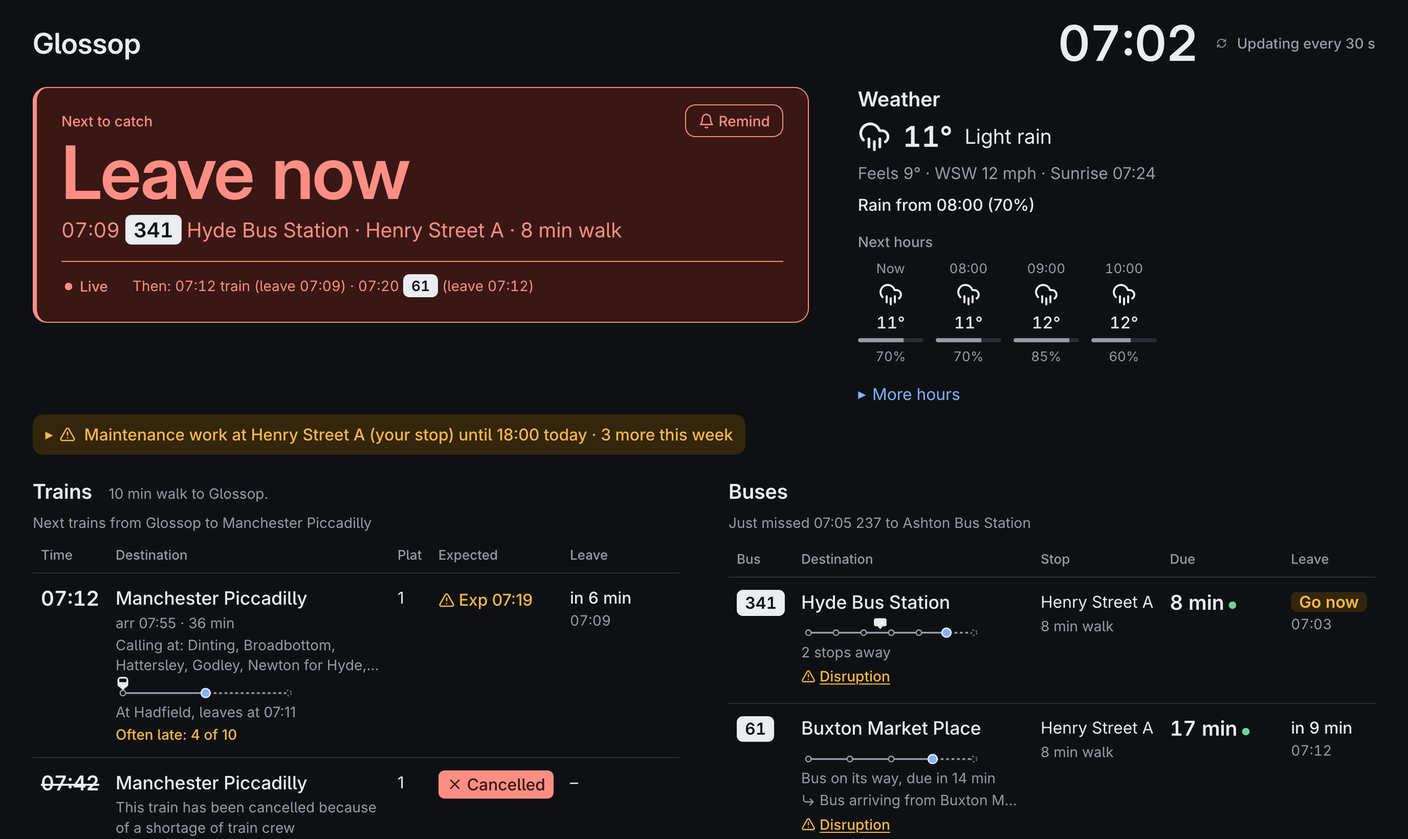
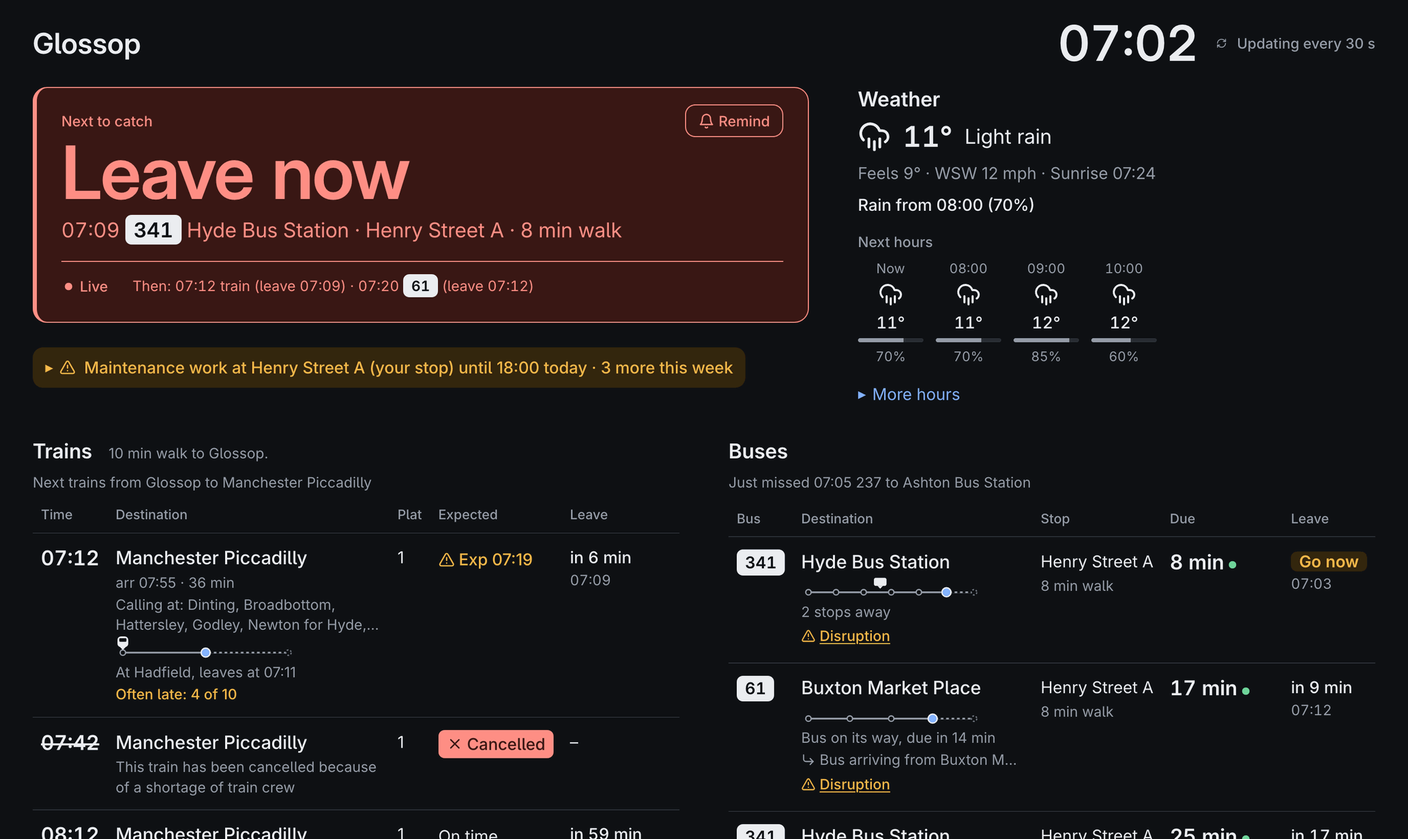
style(dashboard): cut the calling-at line to two lines and tuck the disruption line under the hero
The first train's calling points ran to five lines in the Dot matrix, TFT
and Split-flap looks whenever they didn't scroll (scrolling text off, or
reduced motion), pushing the next departure down the page. They are now
two lines cut short with an ellipsis in every look, as Standard already
was; while the station looks scroll, the line stays one scrolling line,
and the sheet still has the whole journey.

On a wide screen the disruption line sat across the page under the hero,
leaving a band of nothing beside the hero while the taller weather
finished. It now sits in the hero's column under Next to catch, beside
the weather, with an empty 1fr row taking the weather's extra height, so
the boards start sooner. The DOM order is unchanged (hero, alerts,
disruption, boards, weather), so screen readers and the Tab key meet
things as before; the wall tablet keeps its own layout.

The dark dashboard picture is retaken to match.

diff --git a/src/twobells/dashboard_static/app.css b/src/twobells/dashboard_static/app.css
@@ -626,9 +626,11 @@ main:focus { outline: none; }
 /* --- Sections: plain on the page, no boxes. Narrow, one column: trains,
    buses, around here, the weather. From 75rem the weather sits beside Next
    to catch, which would otherwise leave half the width empty, as a wall
-   tablet's does; trains and buses side by side under them, and around here
-   last. The page's order stays as it reads narrow, departures first and the
-   weather, a sidebar there, last. --- */
+   tablet's does, with the alerts and the disruption line under the hero in
+   its column, so the weather's height isn't a band of nothing there; trains
+   and buses side by side under them, and around here last. The page's order
+   stays as it reads narrow, departures first and the weather, a sidebar
+   there, last. --- */
 
 .sections { display: grid; gap: var(--s-7); }
 .boards, .extras { display: grid; gap: var(--s-7); }
@@ -642,11 +644,15 @@ main:focus { outline: none; }
 .empty { margin: var(--s-2) 0; color: var(--muted); }
 @media (min-width: 75rem) {
   /* No gap between rows: an empty alert row or a hidden disruption line
-     would still leave its gap. The margins space them. */
+     would still leave its gap. The margins space them. The empty 1fr row
+     under the disruption line takes whatever height the weather has over
+     the hero's column, so the hero, the alerts and the line stay together
+     at its top. */
   :root:not([data-kiosk]) main {
     display: grid;
     grid-template-columns: minmax(0, 3fr) minmax(0, 2fr);
-    grid-template-areas: "hero weather" "alert alert" "dis dis" "boards boards" "area area";
+    grid-template-rows: auto auto auto 1fr auto auto;
+    grid-template-areas: "hero weather" "alert weather" "dis weather" ". weather" "boards boards" "area area";
     gap: 0 var(--s-7);
     align-items: start;
   }
@@ -657,6 +663,8 @@ main:focus { outline: none; }
   .boards { grid-area: boards; display: flex; gap: var(--s-7); align-items: flex-start; }
   .boards > * { flex: 1 1 0; }
   .weather { grid-area: weather; }
+  /* Its column ends as the hero's does, on the disruption line's margin. */
+  :root:not([data-kiosk]) .weather { margin-bottom: var(--s-5); }
   .area { grid-area: area; margin-top: var(--s-7); }
   /* The weather beside the hero says the same rain sentence. */
   :root:not([data-kiosk]) .leave-rain { display: none; }
@@ -702,10 +710,10 @@ table.board .dest { font-size: var(--t-row); line-height: 1.3; }
    its sheet says it all, under Bus coming in. Its width is 0 so the long
    line doesn't widen the table: it takes the room the column has. */
 table.board .inbound { width: 0; min-width: 100%; overflow: hidden; white-space: nowrap; text-overflow: ellipsis; }
-/* In the Standard look the first train's calling points show two lines,
-   cut short; the train's sheet has its whole journey and its coaches.
-   The station looks scroll it, or show it whole with scrolling off. */
-:root[data-theme="modern"] .calling-at {
+/* The first train's calling points show two lines, cut short with "…", in
+   every look; the train's sheet has its whole journey and its coaches.
+   While the station looks scroll it (below), it is one line instead. */
+.calling-window {
   display: -webkit-box;
   -webkit-box-orient: vertical;
   -webkit-line-clamp: 2;
@@ -1422,13 +1430,14 @@ table.repay td:nth-child(2), table.repay td:last-child { white-space: normal; }
 :root[data-theme="tft"] .badge.st-late { color: var(--pill-ink); background: var(--pill-late); }
 :root[data-theme="tft"] .badge.st-cancelled { color: var(--pill-bad-ink); background: var(--pill-bad); }
 
-/* --- The first train's "Calling at" line (board.js): wrapped, as any line
-   under a destination, and two lines at most in the Standard look. The Dot matrix, TFT and Split-flap looks scroll it
-   along one line instead, as the board's screen does in every look, in from
-   the right; never with scrolling text off in the settings
+/* --- The first train's "Calling at" line (board.js): two lines at most,
+   cut short, in every look. The Dot matrix, TFT and Split-flap looks scroll
+   it along one line instead, as the board's screen does in every look, in
+   from the right; never with scrolling text off in the settings
    (data-scrolling="off"), nor with reduced motion, nor on a wall tablet,
-   which hides the line. The window's width is 0 so the long line doesn't
-   widen the table: it takes the room the column has. --- */
+   which hides the line. Scrolling, the window is a block, not the clamp's
+   box, and its width is 0 so the long line doesn't widen the table: it
+   takes the room the column has. --- */
 
 @keyframes calling-scroll { to { transform: translateX(-100%); } }
 @media (prefers-reduced-motion: no-preference) {

diff --git a/src/twobells/dashboard_static/board.js b/src/twobells/dashboard_static/board.js
@@ -257,9 +257,9 @@ export function applyScrolling(root, snapshot) {
 // The first row's "Calling at" line, in the server's words (core/calling.py):
 // "Calling at: Dinting, Broadbottom and Manchester Piccadilly. This train is
 // formed of 3 coaches." Every look but Standard (Dot matrix, TFT, Split-flap)
-// scrolls it along one line, as a station's screen does. With scrolling off
-// in the settings (applyScrolling) and with reduced motion it wraps; the
-// Standard look shows two lines of it, cut short (app.css).
+// scrolls it along one line, as a station's screen does. The Standard look,
+// and every look with scrolling off in the settings (applyScrolling) or with
+// reduced motion, shows two lines of it, cut short (app.css).
 
 // Seconds for one pass: a steady pace, whatever the line's length.
 export const callingSeconds = (text) => Math.round(8 + 0.2 * text.length);

diff --git a/tests/dashboard/test_static.py b/tests/dashboard/test_static.py
@@ -1823,8 +1823,16 @@ def test_from_75rem_the_weather_sits_beside_the_hero_over_the_boards():
     assert "display: grid" in main
     areas = re.search(r'grid-template-areas:\s*((?:"[^"]*"\s*)+);', main).group(1)
     rows = [row.split() for row in re.findall(r'"([^"]*)"', areas)]
-    assert rows[0] == ["hero", "weather"]
-    assert rows.index(["dis", "dis"]) < rows.index(["boards", "boards"]) < [r[0] for r in rows].index("area")
+    # The hero's column: Next to catch, the alerts and the disruption line, with the weather beside them all,
+    # and an empty row under them taking the weather's extra height, so no band of nothing opens under the hero.
+    assert rows[:4] == [["hero", "weather"], ["alert", "weather"], ["dis", "weather"], [".", "weather"]]
+    assert rows[4:] == [["boards", "boards"], ["area", "area"]]
+    heights = re.search(r"grid-template-rows:\s*([^;]+);", main).group(1).split()
+    assert heights == ["auto", "auto", "auto", "1fr", "auto", "auto"]
+    # Its column ends on the disruption line's margin, but not on a wall tablet, which fits one screen.
+    assert _css_value(".disruptions", "margin") == "0 0 var(--s-5)"
+    assert "margin-bottom: var(--s-5)" in wide[":root:not([data-kiosk]) .weather"]
+    assert "margin" not in wide[".weather"]
     # The wrappers step aside, so their sections are the grid's own items.
     assert "display: contents" in wide[".sections"] and "display: contents" in wide[".extras"]
     for selector, area in ((".leave", "hero"), (".weather", "weather"), (".disruptions", "dis"),
@@ -2159,10 +2167,26 @@ def test_the_calling_at_line_scrolls_in_every_look_but_standard_while_scrolling_
     for selector in selectors:
         assert selector.startswith(':root:is([data-theme="board"], [data-theme="tft"], [data-theme="flap"])'
                                    ':not([data-scrolling="off"]) '), selector
+    # Scrolling, the window is one line, not the clamp's two (see below).
+    window = re.search(r"\.calling-window\s*\{([^}]*)\}", motion).group(1)
+    assert "display: block;" in window and "white-space: nowrap;" in window
     # The settings say whether it scrolls: the page has no button of its own for it, nor remembers one.
     page = (STATIC / "index.html").read_text(encoding="utf-8")
     assert "calling-pause" not in page and "calling-pause" not in css
     assert "dashboard.calling" not in (STATIC / "board.js").read_text(encoding="utf-8")
+
+
+def test_the_calling_at_line_is_two_lines_cut_short_in_every_look_unless_it_scrolls():
+    # Standard, and every look with scrolling text off or reduced motion: two lines, then "…"; the sheet has
+    # the whole journey. The rule is for every look, not one of them.
+    window = ".calling-window"
+    assert _css_value(window, "display") == "-webkit-box"
+    assert _css_value(window, "-webkit-box-orient") == "vertical"
+    assert _css_value(window, "-webkit-line-clamp") == "2" and _css_value(window, "line-clamp") == "2"
+    assert _css_value(window, "overflow") == "hidden"
+    css = re.sub(r"/\*.*?\*/", "", (STATIC / "app.css").read_text(encoding="utf-8"), flags=re.S)
+    themed = [s for s, body in re.findall(r"([^{}]+)\{([^{}]*)\}", css) if "calling" in s and "line-clamp" in body]
+    assert [s.strip() for s in themed] == [window]
 
 
 @needs_node

diff --git a/CHANGELOG.md b/CHANGELOG.md
@@ -22,12 +22,12 @@ Notable changes to this project. The format follows [Keep a Changelog](https://k
 - A clock page for the board on an HDMI screen: a platform clock in the style of the classic British one (white face, black batons and hands, red seconds hand), with the time and date beside it in words, for 10 seconds after the departures and the bus page. Off unless ticked: **Clock page** under **What to show** on the Board tab, or `"clock_page"` in `[board] show`.
 - A wall tablet (`/?kiosk`) shows the same platform clock large in place of the departures during the quiet hours, dimmed with the page and still moving against burn-in, with the time in words. Its seconds hand sweeps, or ticks where the tablet asks for reduced motion.
 - A live bus's sheet on the dashboard says which bus it is, from its tracker: the fleet number and registration, "3017 (AB25 CDE)", or either alone, with a link to look a registration up on bustimes.org. Anything else the tracker sends is left out.
-- The station board's "Calling at" line under the first train: "Calling at: Dinting, Broadbottom and Manchester Piccadilly. This train is formed of 3 coaches.", with stops no longer called at named after it ("Does not call at Hattersley."), or alone when it calls at none, and "This is a replacement bus." for a bus. A train that divides names every part's stops, in time order. The HDMI screens scroll it in every look; to have the calling points, a screen asks for National Rail's board with details, the same request with more in its answer. E-paper doesn't show it. The dashboard's first train has it too (`calling_at` in the API), scrolling along one line in the Dot matrix, TFT and Split-flap looks, and wrapped with reduced motion.
+- The station board's "Calling at" line under the first train: "Calling at: Dinting, Broadbottom and Manchester Piccadilly. This train is formed of 3 coaches.", with stops no longer called at named after it ("Does not call at Hattersley."), or alone when it calls at none, and "This is a replacement bus." for a bus. A train that divides names every part's stops, in time order. The HDMI screens scroll it in every look; to have the calling points, a screen asks for National Rail's board with details, the same request with more in its answer. E-paper doesn't show it. The dashboard's first train has it too (`calling_at` in the API), scrolling along one line in the Dot matrix, TFT and Split-flap looks, and two lines cut short with "…" with reduced motion.
 - Station announcements on the dashboard, in a station's classic words after a chime of three tones: "The next train to depart from platform 1 will be the 08:12 Northern service to Manchester Piccadilly. Calling at …", cancellations and delays with National Rail's reason ("This is due to a shortage of train crew."), and platform alterations. A train's sheet has **Announce**, showing the words as they are said; a wall tablet at `/?kiosk&announce` announces the next train a few minutes before it goes, a train delayed with no expected time, cancellations and platform alterations by itself, once each and never in the quiet hours, after one tap to let it make sound. The voice is the device's own, British English where it has one. Each train row in the API has them as `announce`.
 - Station announcements on the HDMI screen, through the Pi's speaker with espeak-ng, in the dashboard's words for the same train, stops, coaches and National Rail's reasons included: the next train to depart 4 minutes before it goes (as the dashboard decides it, never one already gone or delayed with no expected time), the delay of a train delayed with no expected time, cancellations and platform alterations, once each, by the wall tablet's rules, only in the train checking times and never in the quiet hours. Off unless chosen: **Announcements** under **What to show** on the Board tab (`"announce_speaker"` in `[board] show`), which no preset ticks. `install.sh` and `update.sh` install espeak-ng for a screen, and the screen's service joins the `audio` group for the sound devices. E-paper boards don't speak. Not yet tried on a real Pi.
 
 - A departure that starts at your stop goes live before its bus turns round, where the operator's timetable gives blocks (TransXChange's `BlockNumber`): the bus on the journey before it in its block, ending at your stop, is followed in. The row is marked inbound ("Bus on its way, due in 6 min", `On its way, 6 min` on a screen's row) and a late inbound bus makes it late, leaving 2 minutes after it gets in, never before its time. A bus still in 30 minutes after the departure's time, still on the journey before, has laid over or gone out of service: it is let go, and the departure goes as one with no bus seen would. The punctuality history records no delay for a departure whose bus is only waiting in. The block is checked against the timetable before it is trusted, and a bus whose block's bus isn't seen stays timetable only. Without blocks the bus is guessed by line, as bustimes.org does: each bus coming in on a journey of the line and operator ending at your stop goes to the earliest departure it can make, up to 30 minutes after it is due in, and a departure with exactly one bus coming to it is live, marked inbound, in the same words. A bus whose block goes on to another journey is left to that one, and a departure first in its block, out of the depot, is never guessed at, so one bus is never given to two departures. Bee Network's and High Peak's timetables give no blocks, so Glossop's buses go live this way. The dashboard API's `inbound` says which it is with `followed`.
-- **Scrolling text**, on the General tab (`scrolling` in `config.toml`): one switch for every view. Off, the dashboard's calling-at line wraps in every look and an HDMI screen board cuts long text short with `…`, as e-paper does, rather than scrolling it; the split-flap look's tiles still turn. The dashboard API sends it as `scrolling`.
+- **Scrolling text**, on the General tab (`scrolling` in `config.toml`): one switch for every view. Off, the dashboard's calling-at line is two lines cut short with `…` in every look and an HDMI screen board cuts long text short with `…`, as e-paper does, rather than scrolling it; the split-flap look's tiles still turn. The dashboard API sends it as `scrolling`.
 
 ### Changed
 
@@ -38,8 +38,9 @@ Notable changes to this project. The format follows [Keep a Changelog](https://k
 - The dashboard's header keeps the place, a larger clock and the status; **Look**, **Performance** and **Settings** move to a footer, on the Performance page too. Next to catch's **Remind me** is a small bell saying **Remind** at the top right, beside its label, and the departure sheet's is smaller.
 - The dashboard's status is quiet words while all is well (**Live**, or **Updating every 30 s** without a ticking age), and fills in amber or red only when something is wrong.
 - Next to catch reads as one statement: the countdown, which departure in the rows' size, then one quiet line for how sure it is, what to catch instead and the rain, which a wide screen leaves to the weather beside it. On a wall tablet that line sits at the foot of the hero.
+- On a wide screen the disruption line sits under Next to catch, beside the weather, rather than across the page under both, so the trains and buses start sooner. Screen readers and the Tab key meet it where they did, after Next to catch.
 - The trains and buses start sooner: the walk to the station sits beside the Trains heading, and station information and the bus timetable changes coming up are quiet notes under their boards, no longer boxes that looked like buttons above them.
-- The dashboard's rows are calmer: destinations a size larger, everything under them one quiet size, the first train's calling points two lines in the Standard look and a bus coming in one line, each cut short with the rest in the sheet, and "Often late" and a bus's **Disruption** link as amber words rather than pills.
+- The dashboard's rows are calmer: destinations a size larger, everything under them one quiet size, the first train's calling points two lines in every look (one scrolling line in the station looks while they scroll) and a bus coming in one line, each cut short with the rest in the sheet, and "Often late" and a bus's **Disruption** link as amber words rather than pills.
 - The user guide is a page per topic, indexed by `docs/user-guide.md`; the Docker pages are one, and the code layout is in `docs/architecture.md`.
 
 ### Fixed

diff --git a/docs/dashboard.md b/docs/dashboard.md
@@ -15,9 +15,9 @@ It is at the install's address, port 8090: `http://<pi name>.local:8090/` on a P
 All of this shows until **What to show** on the [Dashboard page](settings.md#dashboard) of the settings leaves some out: anything but the departures' times can go, and the page then shows the rest with no gap where it was.
 
 - **At the top:** the place ("Glossop" from a title of "Glossop > Manchester Picc"), the time, large, and one status word: **Live** (or **Updating every 30 s** where the page has to ask), quiet while all is well, or, filled in amber or red, **Reconnecting…** or **Offline** with when it last heard, or "Not updated since 17:42" when the trains or buses have fallen behind. The weather and the disruption checks say their own problems in their sections. A section has its own line only when it has a problem or a note. Screen readers hear when the status word changes, never its "last update" time ticking on.
-- **The order:** Next to catch, then the disruption line, then the trains and buses, then Around here and the weather. On a wide screen the weather sits beside Next to catch and the trains and buses side by side under them; screen readers and the Tab key still meet the weather last.
+- **The order:** Next to catch, then the disruption line, then the trains and buses, then Around here and the weather. On a wide screen the weather sits beside Next to catch, with the disruption line under Next to catch, and the trains and buses side by side under them; screen readers and the Tab key still meet the weather last.
 - **Next to catch:** the next train or bus you can still reach on foot, and how long until you need to leave: "Leave in 6 min", with the seconds only in the last 2 minutes ("Leave in 1:53"), amber from 3 minutes, then **Leave now** in red in the last minute. Under it, one line says which departure it is, from where and how far ("17:55 237 Ashton-under-Lyne Interchange · Henry Street A · 5 min walk"), and a quieter line under that says how sure it is: **Live** (a train on the live board, or a bus with a live position), **Timetable only** (a bus with no live position), or **May not be running** (a bus due with no tracker). If that bus may not be running and a live train or bus leaves within 5 minutes after it, the live one is shown instead. **Then:** offers what to catch instead, the next train and the next bus with their leave times. The rain warning shows on that line too where the weather isn't beside it, and **Remind**, a small bell at the top right, works as **Remind me** does in a departure's sheet. Screen readers hear when the departure changes and the change has held for half a minute, never the countdown.
-- **Trains:** time, destination (with National Rail's route words under it, such as "via Guide Bridge", and when it gets there, "arr 18:25 · 33 min"), platform ("–" until it's known; "Bus" for a rail replacement bus, which also says "Replacement bus" under its destination; "Ferry" for a ferry, where one connects; "2 (changed)", on amber, when it isn't the platform the train was given earlier, or the one it usually leaves from; screen readers hear each change once), expected ("On time", "Exp 18:56", "Delayed", or "Cancelled" with the reason), and when to leave. The first train also has its "Calling at" line, as the board's screens say it ("Calling at: Dinting, Broadbottom and Manchester Piccadilly. This train is formed of 3 coaches."), two lines of it in the Standard look, cut short with "…" (the train's sheet has its whole journey and its coaches), and, with the Service Details key below, where it is now; a train placed on its journey has a small strip before those words, its stops with the train drawn where it is. With **Position strips in each row** off, no row has a strip and only the first train says where it is. In the Dot matrix, TFT and Split-flap looks the calling-at line scrolls along one line, in from the right, as on a station's screen, unless **Scrolling text** is off on the [General page](settings.md#general) of the settings, which shows it whole in every look. With reduced motion set on your device it never scrolls. A wall tablet leaves it out.
+- **Trains:** time, destination (with National Rail's route words under it, such as "via Guide Bridge", and when it gets there, "arr 18:25 · 33 min"), platform ("–" until it's known; "Bus" for a rail replacement bus, which also says "Replacement bus" under its destination; "Ferry" for a ferry, where one connects; "2 (changed)", on amber, when it isn't the platform the train was given earlier, or the one it usually leaves from; screen readers hear each change once), expected ("On time", "Exp 18:56", "Delayed", or "Cancelled" with the reason), and when to leave. The first train also has its "Calling at" line, as the board's screens say it ("Calling at: Dinting, Broadbottom and Manchester Piccadilly. This train is formed of 3 coaches."), two lines of it, cut short with "…" (the train's sheet has its whole journey and its coaches), and, with the Service Details key below, where it is now; a train placed on its journey has a small strip before those words, its stops with the train drawn where it is. With **Position strips in each row** off, no row has a strip and only the first train says where it is. In the Dot matrix, TFT and Split-flap looks the calling-at line scrolls along one line, in from the right, as on a station's screen, unless **Scrolling text** is off on the [General page](settings.md#general) of the settings, which keeps it to its two lines in every look. With reduced motion set on your device it never scrolls. A wall tablet leaves it out.
 - **Buses:** the line and destination, the stop ("Henry Street A") and its walk, when it's due, and when to leave. A bus with a live position counts down in minutes ("4 min", "Due") with a small live mark and says where it is ("2 stops away"), after a small strip of the stops before yours with the bus drawn on it. A bus starting at your stop whose bus is followed in on the journey before (see [Bus times](buses.md#how-bus-times-are-worked-out)) counts as live too: "Bus on its way, due in 6 min", then "Bus in, waiting to leave", with no bus on its strip yet, and a line under it saying where that bus is coming from and how late it is, cut short to one line in the row (the sheet says it whole, under **Bus coming in**). A bus known only from the timetable shows its time with "sched.", and never minutes, and its strip with no bus on it ("No live position"). With **Position strips in each row** off, the words stay and the strips go.
 - **Last buses:** from 19:00, or once 3 or fewer of a line's buses are left today, a line under the buses says when the last of each line and destination goes, "Last 341 to Hyde Bus Station 23:05", and ", gone" once it has. After midnight, a line whose evening buses are still running shows the last of them. Every bus's sheet says it too, under **Last bus**, at any time of day. See [Bus times](buses.md#how-bus-times-are-worked-out).
 - **When to leave:** "in 26 min" with the time, then **Go now** from a minute before until 2 minutes after. After that the departure leaves the list, and one dimmed line says "Just missed 17:40 …" until it has gone. Cancelled departures stay.

diff --git a/docs/dashboard-api.md b/docs/dashboard-api.md
@@ -192,7 +192,7 @@ Answers with `ETag: "v<version>"`, and 304 if `If-None-Match` matches.
   - `platform_changed` is true when `platform` isn't the one the server's last fetch gave the same train (it stays true while the train keeps its new platform), or isn't `usual_platform`. A platform appearing or going is no change, and a replacement bus or a ferry is never one. The page says "2 (changed)" in the Plat column, on the late colours, says "Usually: Platform 1" in the sheet, and announces each change once in the live region.
 - **`via`:** Darwin's words on the train's route, after its destination, like "via Guide Bridge", or null. The page shows it under the destination and in the sheet's title.
 - **Calling points:** `calling_points` are the stops after this station, `previous_points` the ones before it, both in journey order. Times are `HH:MM` or null; `actual` is set once the train has been there. A cancelled stop has `cancelled: true` and null times.
-- **`calling_at`:** the station board's "Calling at" line, in words, from `calling_points` and `length` (or else the coaches in `formation`): "Calling at: Dinting and Manchester Piccadilly." ("Calling at: Manchester Piccadilly only." for one stop, from `calling_points` less those cancelled), then "Does not call at Hattersley or Godley." for stops cancelled (alone when every stop is), then "This train is formed of 3 coaches." when the length is known, or "This is a replacement bus." or "This is a ferry." It is null for a cancelled train and when Darwin gives no calling points. The board's screens scroll the same line under their first train. **On the page:** the first row shows it under the destination; the Dot matrix, TFT and Split-flap looks scroll it along one line, in from the right, while `scrolling` is true, and wrap it when it is false. With reduced motion it never scrolls; a wall tablet leaves the line out.
+- **`calling_at`:** the station board's "Calling at" line, in words, from `calling_points` and `length` (or else the coaches in `formation`): "Calling at: Dinting and Manchester Piccadilly." ("Calling at: Manchester Piccadilly only." for one stop, from `calling_points` less those cancelled), then "Does not call at Hattersley or Godley." for stops cancelled (alone when every stop is), then "This train is formed of 3 coaches." when the length is known, or "This is a replacement bus." or "This is a ferry." It is null for a cancelled train and when Darwin gives no calling points. The board's screens scroll the same line under their first train. **On the page:** the first row shows it under the destination; the Dot matrix, TFT and Split-flap looks scroll it along one line, in from the right, while `scrolling` is true, and show two lines of it, cut short with "…", when it is false, as the Standard look always does. With reduced motion it never scrolls; a wall tablet leaves the line out.
 - **`announce`:** what a station's public address would say about the train, as `{"kind", "text"}` in the order to say them, worded by `core/announce.py`. A cancelled train has `cancelled` alone: "We are sorry to announce that the 07:42 Northern service to Manchester Piccadilly has been cancelled. This is due to a shortage of train crew." Any other train has, in this order:
   - `platform` when `platform_changed` is true and the platform is known: "Platform alteration: the 07:12 … will now depart from platform 2."
   - `delayed` when it is late: "… is delayed by approximately 7 minutes.", or "… is delayed." with no expected time, then the reason.
@@ -228,7 +228,7 @@ Answers with `ETag: "v<version>"`, and 304 if `If-None-Match` matches.
 - **`walk`:** the walk times as set, by mode and stop label (`*` for any stop). The page reads `walk.train` for the trains' walk line; `walk_min` on rows and stops supersedes the rest.
 - **`quiet`:** true while one of the dashboard's quiet windows (`quiet_windows`, bank holidays counted as Sundays) is on, else false. It is worked out once a minute, so it can be up to a minute behind the window. The wall-tablet page (`/?kiosk`) dims while it is true.
 - **`row_strips`:** whether the page draws each row's position strip (`[dashboard] row_strips`, **Position strips in each row** in the settings). When false, rows keep their words without the drawing, and only the first train row says where its train is. A snapshot without it, from an older server, counts as true. The wall-tablet page never draws them.
-- **`scrolling`:** whether the first train's calling-at line may scroll (`scrolling`, **Scrolling text** on the General page of the settings, which the board's screen follows too). When false, the line wraps in every look. A snapshot without it, from an older server, counts as true.
+- **`scrolling`:** whether the first train's calling-at line may scroll (`scrolling`, **Scrolling text** on the General page of the settings, which the board's screen follows too). When false, every look shows two lines of it, cut short. A snapshot without it, from an older server, counts as true.
 - **`show`:** what the page shows beside the departures' times (`[dashboard] show`, **What to show** in the settings; see [What each view shows](configuration.md#what-each-view-shows)), each named once, in this order: `next_to_catch` (the hero), `where` (each row's where-words and strip), `disruptions` (the summary, the bus rows' links and their announcements), `weather` (the panel and the hero's rain sentence), `last_buses` (the list under the buses and a bus sheet's **Last bus**), `area_map` (Around here: the line and the buses nearby, which isn't fetched then), `remind` (Remind me, a row's bell and the reminders), `calling_at` (the first train's line), `coaches` (a train sheet's coaches and count), `punctuality` (a row's "Often late", the sheet's punctuality, which isn't fetched then, and a bus sheet's **Tracker**), `performance` (the footer's link; `/performance` says it is left out), `fleet_numbers` (a bus sheet's **Bus**), `announce` (a train sheet's **Announce** and the wall tablet's announcements). The page leaves out whatever isn't named, on the wall tablet too, and leaves no gap. A snapshot without it, from an older server, shows everything. The rest of the snapshot is the same whatever it says.
 - **`stop_name`:** the stop's name from the stop data with the letter on its sign when known ("Church Street (Stop A)"); "Stop A" from the board's label when the stop has no data. Show this rather than the label.
 - **`strip`:**

diff --git a/docs/settings.md b/docs/settings.md
@@ -112,7 +112,7 @@ Each key has a small form of its own, headed by what it unlocks, with a label sa
 ## General
 
 - **Views** (a Pi only): the board, the dashboard, or both. At least one stays on.
-- **Scrolling text:** On, text too long for its line scrolls along it: the dashboard's calling-at line in the Dot matrix, TFT and Split-flap looks, and a destination, the calling-at line, where a train or bus is, a disruption notice or a rain warning on a board's HDMI screen. Off, the dashboard wraps the calling-at line and the screen cuts long text short with `…`, as e-paper always does. The split-flap look's tiles still turn. With reduced motion set on a device, the dashboard never scrolls whatever this says.
+- **Scrolling text:** On, text too long for its line scrolls along it: the dashboard's calling-at line in the Dot matrix, TFT and Split-flap looks, and a destination, the calling-at line, where a train or bus is, a disruption notice or a rain warning on a board's HDMI screen. Off, the dashboard shows two lines of the calling-at line, cut short with `…`, and the screen cuts long text short with `…`, as e-paper always does. The split-flap look's tiles still turn. With reduced motion set on a device, the dashboard never scrolls whatever this says.
 - **Bank holidays:** trains and buses run Sunday times on bank holidays, so only checking times that include `Sun` apply then. Pick the part of the UK whose bank holidays to follow (England and Wales, Scotland, or Northern Ireland), or ignore them. Dates come from GOV.UK.
 - Advanced: **Time zone**, like `Europe/London`, with every zone suggested as you type. Departures and checking times are in this zone.
 

diff --git a/docs/configuration.md b/docs/configuration.md
@@ -118,4 +118,4 @@ Dates come from GOV.UK, which lists England and Wales, Scotland, and Northern Ir
 
 ## Scrolling text
 
-`scrolling = true`, the default, scrolls text too long for its line: the dashboard's calling-at line in the Dot matrix, TFT and Split-flap looks, and long text on a board's HDMI screen. `scrolling = false` wraps the dashboard's line and has the screen cut long text short with `…`, as e-paper always does. It is **Scrolling text** on the General page of the settings. A device set to reduce motion never scrolls the dashboard's line.
+`scrolling = true`, the default, scrolls text too long for its line: the dashboard's calling-at line in the Dot matrix, TFT and Split-flap looks, and long text on a board's HDMI screen. `scrolling = false` cuts the dashboard's line to two lines with `…` and has the screen cut long text short with `…`, as e-paper always does. It is **Scrolling text** on the General page of the settings. A device set to reduce motion never scrolls the dashboard's line.
